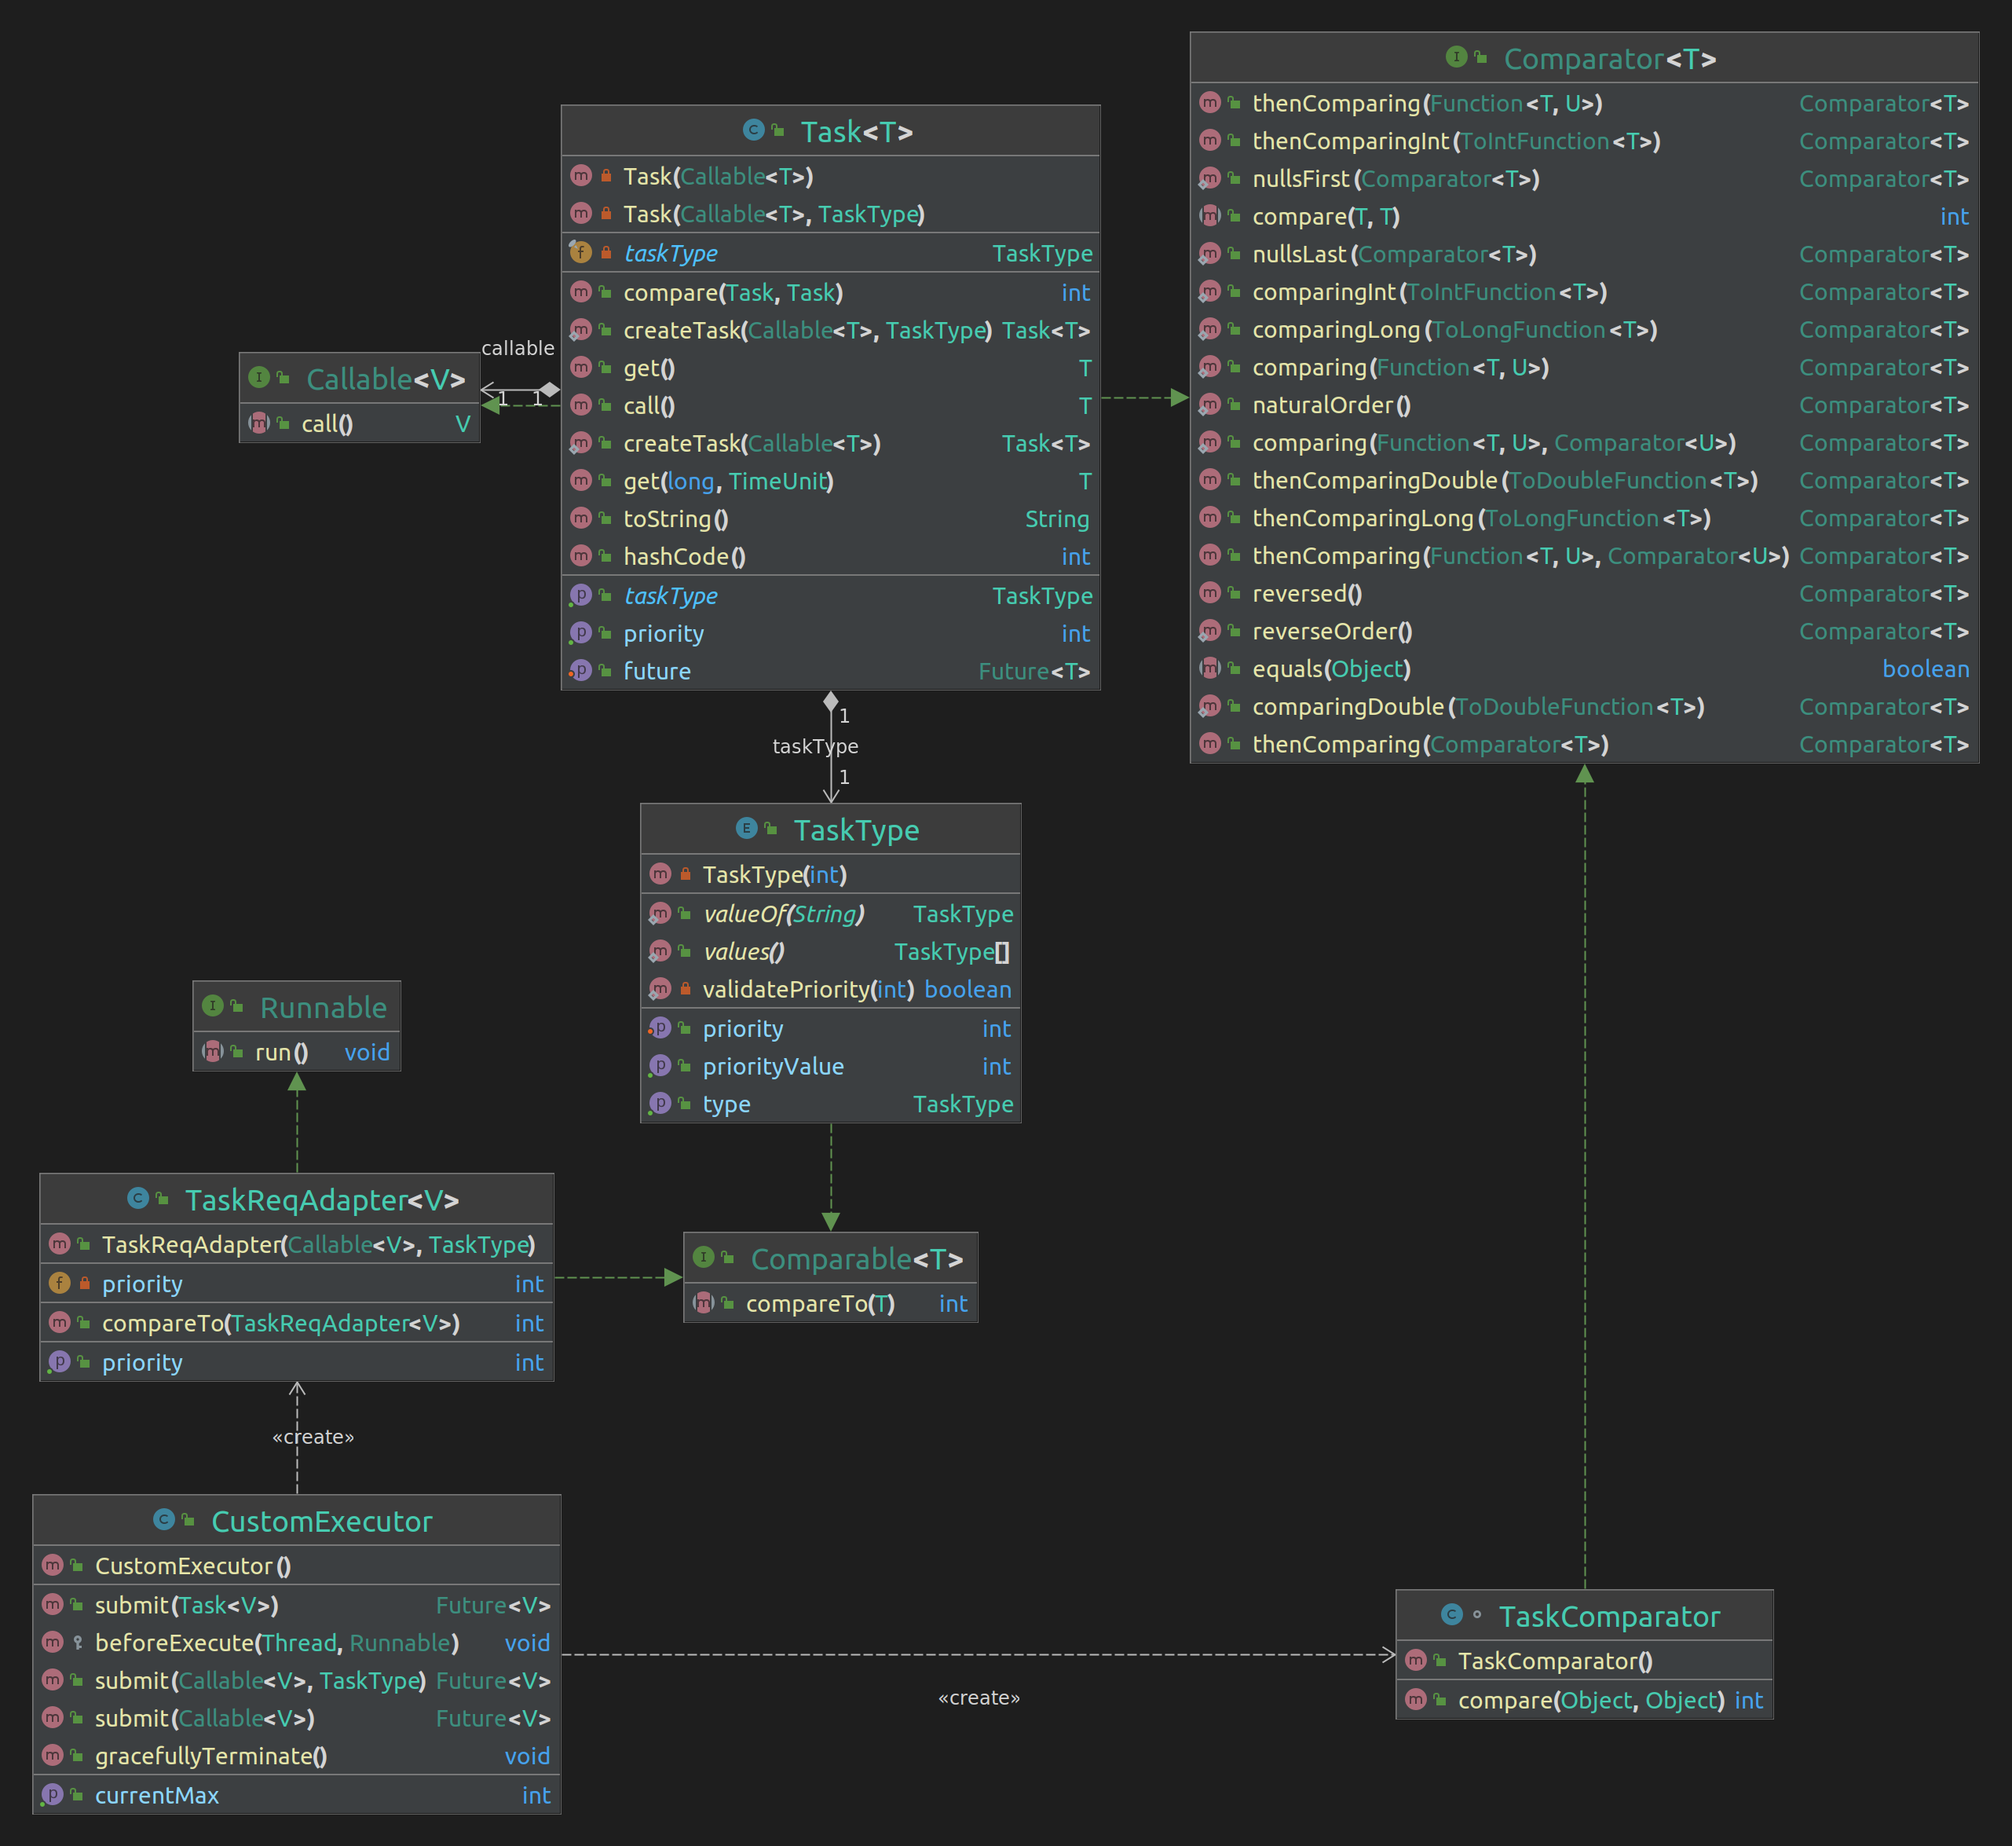
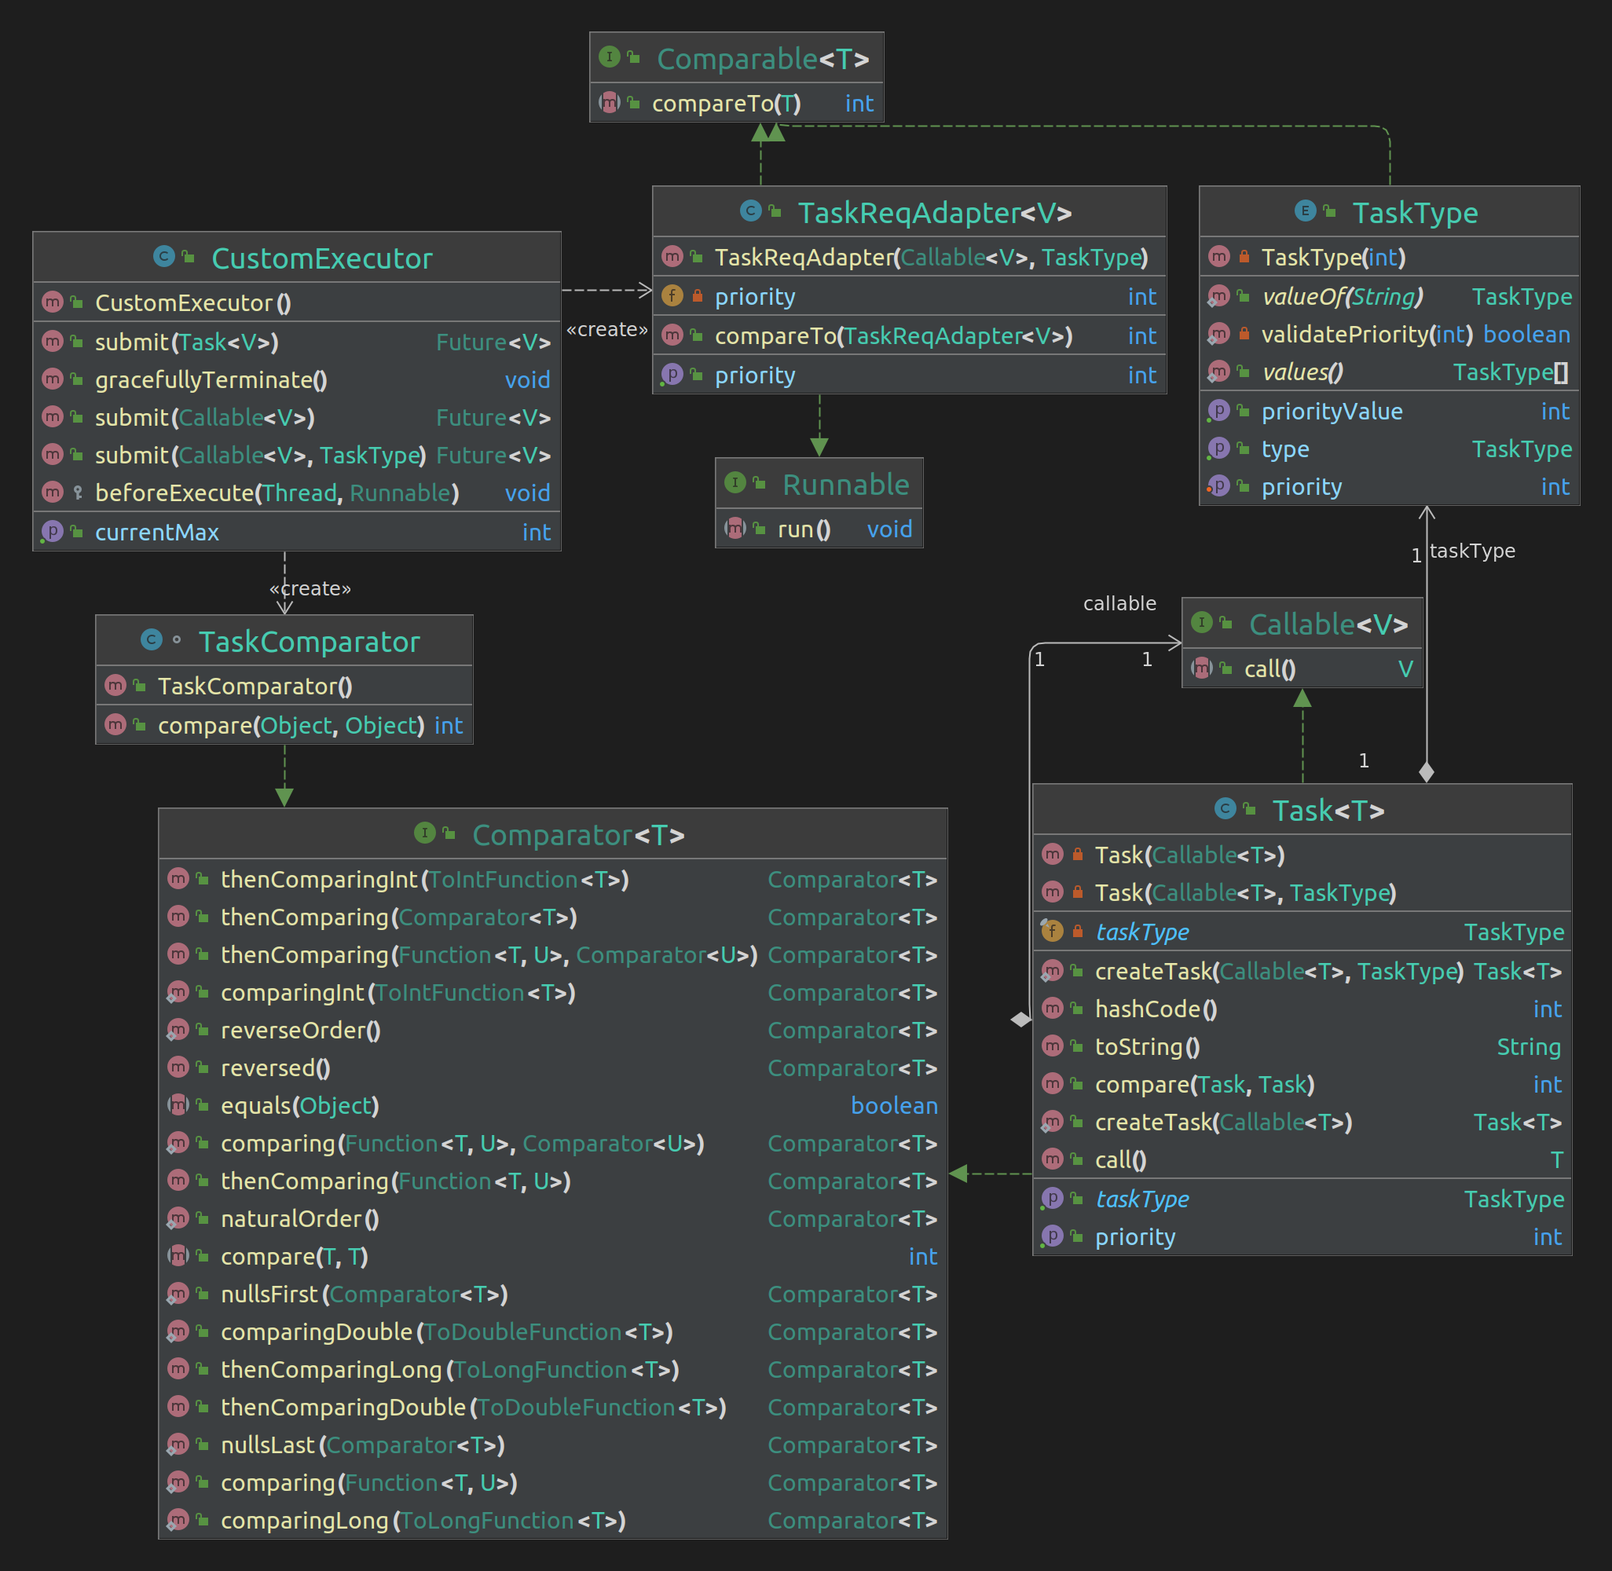
Minor code changes and diagram update

diff --git a/src/Ex2P2/Task.java b/src/Ex2P2/Task.java
@@ -18,9 +18,6 @@ public class Task<T> implements Comparator<Task<T>>, Callable<T>{
 
     private final TaskType taskType; //Task-type which also indicates priority.
     private final Callable<T> callable; //Custom callable function.
-    private Future<T> value; //Value of the instance returned by callable
-    private T result; //Regular result storing
-
 
     /**
      * A private constructor which defaults the task-type to be of the least significance.
@@ -85,42 +82,6 @@ public class Task<T> implements Comparator<Task<T>>, Callable<T>{
             throw new RuntimeException(e);
         }
     }
-
-
-    /**
-     * Calls the Future field's get function, which gets the actual value in the Future instance.
-     * @return concrete value of Future instance.
-     * @throws ExecutionException whenever there is a problem with the execution.
-     * @throws InterruptedException whenever the thread was interrupted during execution.
-     */
-    public T get() throws ExecutionException, InterruptedException {
-        return value.get();
-    }
-
-
-    /**
-     * Overloads above get function. same functionality, but new parameters act as waiting time.
-     * @param timeWait Time to wait for the execution.
-     * @param timeUnit Units of the time
-     * @return concrete value of Future instance.
-     * @throws ExecutionException whenever there is a problem with the execution.
-     * @throws InterruptedException whenever the thread was interrupted during execution.
-     * @throws TimeoutException whenever waiting has timed out.
-     */
-    public T get(long timeWait, TimeUnit timeUnit) throws ExecutionException, InterruptedException, TimeoutException {
-        value.get(timeWait, timeUnit);
-        return (T)value.resultNow();
-    }
-
-
-    /**
-     * Sets the future value.
-     * @param future new future value.
-     */
-    public void setFuture(Future<T> future){
-        this.value = future;
-    }
-
 
     /**
      * Getter of task type.

diff --git a/src/Ex2P2/CustomExecutor.java b/src/Ex2P2/CustomExecutor.java
@@ -2,8 +2,6 @@ package Ex2P2;
 
 import java.util.Comparator;
 import java.util.concurrent.*;
-
-
 /**
  * A custom comparator which will be used as
  * the comparator for the priority queue
@@ -38,7 +36,7 @@ class TaskComparator implements Comparator<Object> {
  * Each Task which runs in the thread-pool will run asynchronously.
  */
 public class CustomExecutor extends ThreadPoolExecutor {
-    static int maxPriority = 0; //the maximum priority currently in the queue.
+    private int maxPriority = 0; //the maximum priority currently in the queue.
 
     /**
      * builds a new ThreadPoolExecutor based on a priorityBlockingQueue
